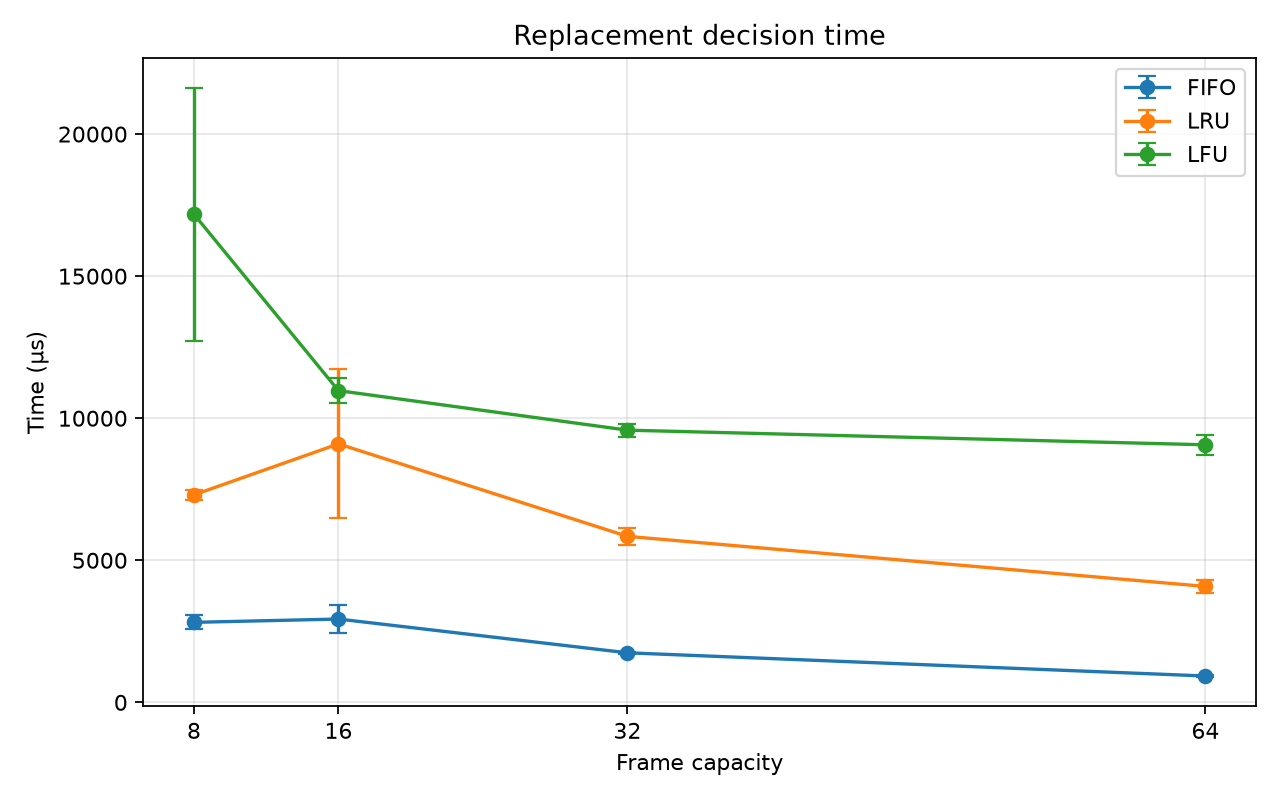
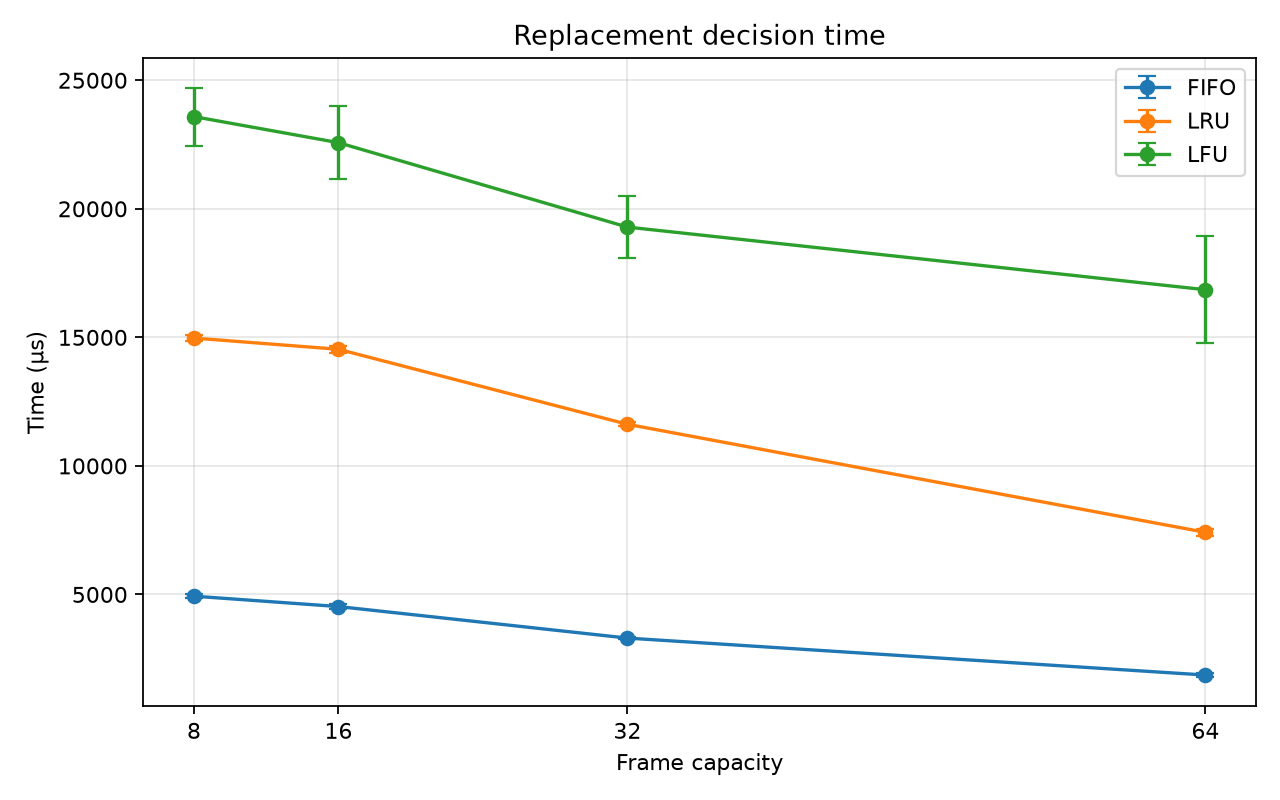
Update page replacement benchmark results from Windows

diff --git a/cross-layer-db-phase2/page_replacement_benchmark/results/benchmark_report.md b/cross-layer-db-phase2/page_replacement_benchmark/results/benchmark_report.md
@@ -12,18 +12,18 @@
 
 | Frames | Algorithm | Avg. faults | Hit ratio | Total time (ms) | Replacement time (µs) | Peak traced memory (KB) |
 |---:|---|---:|---:|---:|---:|---:|
-| 8 | FIFO | 8515.0 | 0.1485 | 11.563 | 2816.252 | 4.28 |
-| 8 | LFU | 7741.0 | 0.2259 | 29.508 | 17178.438 | 66.16 |
-| 8 | LRU | 8485.0 | 0.1515 | 15.573 | 7303.945 | 71.90 |
-| 16 | FIFO | 7278.0 | 0.2722 | 12.966 | 2932.714 | 7.92 |
-| 16 | LFU | 5625.0 | 0.4375 | 17.007 | 10971.003 | 52.35 |
-| 16 | LRU | 7068.0 | 0.2932 | 19.601 | 9096.205 | 63.67 |
-| 32 | FIFO | 5374.0 | 0.4626 | 8.524 | 1744.657 | 15.30 |
-| 32 | LFU | 3395.0 | 0.6605 | 14.007 | 9579.976 | 40.16 |
-| 32 | LRU | 4818.0 | 0.5182 | 11.615 | 5843.018 | 51.52 |
-| 64 | FIFO | 3213.0 | 0.6787 | 5.594 | 927.889 | 27.29 |
-| 64 | LFU | 1973.0 | 0.8027 | 12.632 | 9064.892 | 41.91 |
-| 64 | LRU | 2441.0 | 0.7559 | 8.362 | 4080.566 | 46.41 |
+| 8 | FIFO | 8515.0 | 0.1485 | 21.710 | 4933.060 | 4.28 |
+| 8 | LFU | 7741.0 | 0.2259 | 40.550 | 23585.580 | 66.16 |
+| 8 | LRU | 8485.0 | 0.1515 | 33.023 | 14972.220 | 71.90 |
+| 16 | FIFO | 7278.0 | 0.2722 | 21.078 | 4529.580 | 7.92 |
+| 16 | LFU | 5625.0 | 0.4375 | 36.477 | 22572.740 | 52.35 |
+| 16 | LRU | 7068.0 | 0.2932 | 32.135 | 14536.120 | 63.66 |
+| 32 | FIFO | 5374.0 | 0.4626 | 17.321 | 3303.160 | 15.30 |
+| 32 | LFU | 3395.0 | 0.6605 | 29.457 | 19288.980 | 40.16 |
+| 32 | LRU | 4818.0 | 0.5182 | 25.044 | 11619.640 | 51.52 |
+| 64 | FIFO | 3213.0 | 0.6787 | 12.211 | 1865.480 | 27.30 |
+| 64 | LFU | 1973.0 | 0.8027 | 24.707 | 16853.060 | 41.91 |
+| 64 | LRU | 2441.0 | 0.7559 | 17.087 | 7415.460 | 46.41 |
 
 ## Interpretation
 
